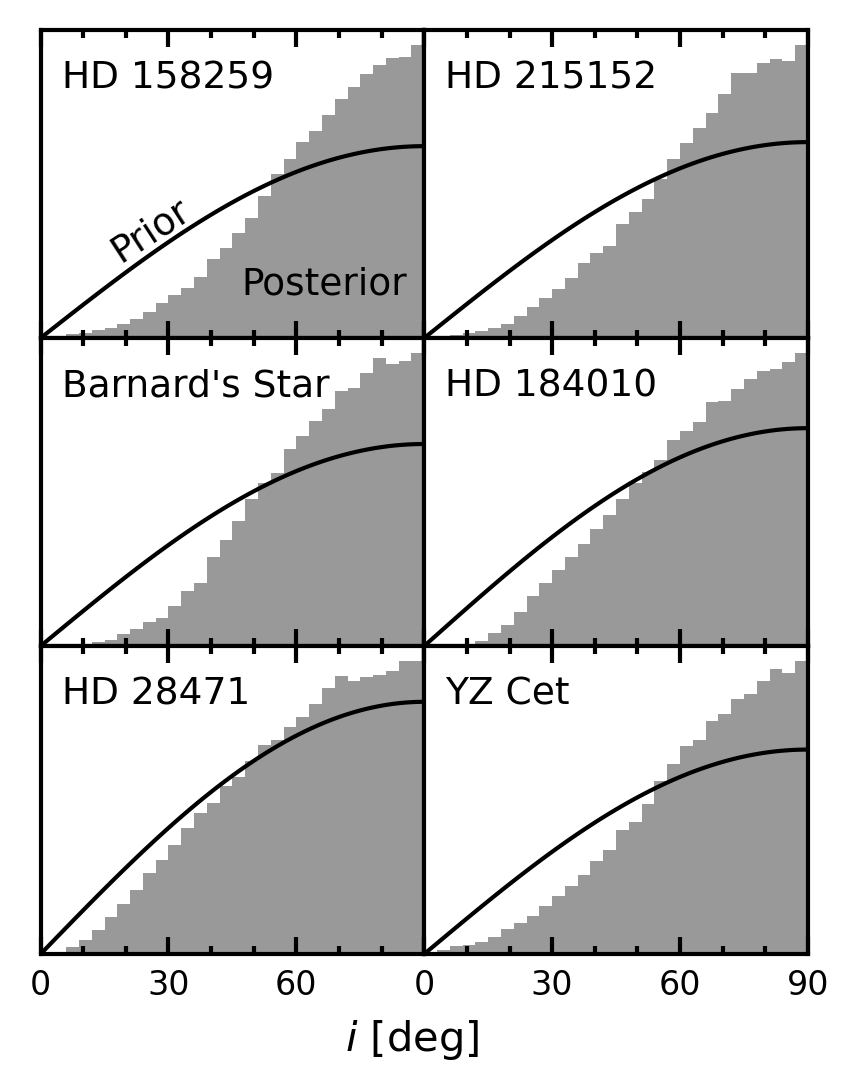
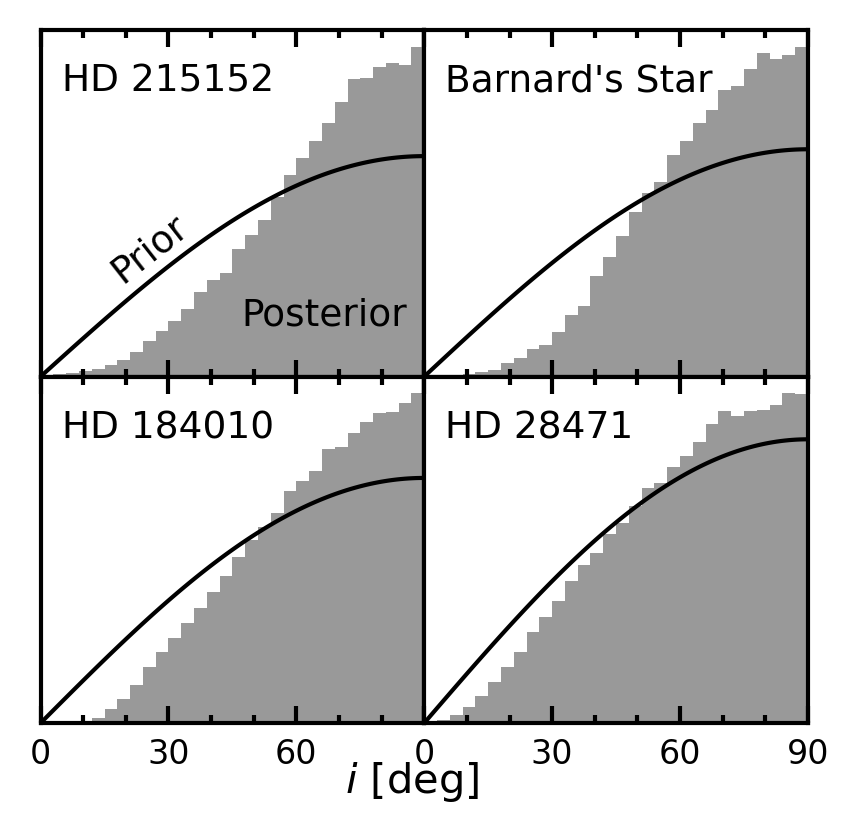
Remove HD 158259 from study, due to its already-well-constrained inclination

Changed region(s): [[0.0303, 0.0, 0.9686, 0.9664], [0.6054, 0.2182, 0.6356, 0.2494]]

diff --git a/scripts/figs/plot_hillstability.py b/scripts/figs/plot_hillstability.py
@@ -11,19 +11,13 @@ from pathlib import Path
 import matplotlib.pyplot as plt
 import numpy as np
 import pandas as pd
+from matplotlib.legend_handler import HandlerBase
 
 M_SUN = 1.989e30  # kg
 M_EARTH = 5.972e24  # kg
 ROOT_DIR = Path(__file__).resolve().parents[2]
 
-SYSTEMS = [
-    "HD 158259",
-    "HD 215152",
-    "Barnard's star",
-    "HD 184010",
-    "HD 28471",
-    "YZ Cet",
-]
+SYSTEMS = ["Barnard's star", "YZ Cet", "HD 28471", "HD 184010", "HD 215152"]
 
 DELTA_CRIT = 10
 
@@ -60,6 +54,22 @@ def collect_inclinations_5pc():
     return inclinations_5pc
 
 
+class VerticalLineHandler(HandlerBase):
+    def create_artists(
+        self, legend, handle, xdescent, ydescent, width, height, fontsize, trans
+    ):
+        x = width / 2
+        return [
+            plt.Line2D(
+                [x, x],
+                [-ydescent, height - ydescent],
+                color=handle.get_color(),
+                linestyle=handle.get_linestyle(),
+                transform=trans,
+            )
+        ]
+
+
 def main():
     if len(sys.argv) > 1:
         output_path = Path(sys.argv[1])
@@ -86,17 +96,19 @@ def main():
     i_deg = np.linspace(0, 90, 1000)
     sini_1_3 = np.sin(np.radians(i_deg)) ** (1 / 3)
     Y_MAX = 24
-    TITLES = [
-        "HD 158259",
-        "HD 215152",
-        "Barnard's Star",
-        "HD 184010",
-        "HD 28471",
-        "YZ Ceti",
-    ]
+    TITLES = ["Barnard's Star", "YZ Cet", "HD 28471", "HD 184010", "HD 215152"]
     TITLE_DICT = dict(zip(SYSTEMS, TITLES))
-    for i, system in enumerate(SYSTEMS):
+
+    for i in range(6):
         ax = axs.flatten()[i]
+        if i == 3:
+            ax.axis("off")
+
+            continue
+        else:
+            system = SYSTEMS[i if i < 3 else i - 1]
+            title = TITLE_DICT[system]
+
         system_data = planets_data[planets_data["hostname"] == system]
 
         m_star = system_data["st_mass"].values[0] * M_SUN
@@ -119,7 +131,7 @@ def main():
         closest_planets = "".join(
             [system_data.iloc[p].pl_name[-1] for p in list(closest_pair)]
         )
-        title = TITLE_DICT[system] + "\n" + f"$\\Delta_{{\\rm {closest_planets}}}$"
+        title_text = f"{title}\n$\\Delta_{{\\rm {closest_planets}}}$"
 
         ax.plot(i_deg, delta_min * sini_1_3, color="k", lw=1)
 
@@ -134,10 +146,9 @@ def main():
         ax.fill_between(i_deg, 0, 10, color="r", alpha=0.2)
 
         inclination_limit = inclinations_5pc[system]
-        if "158259" not in system:
-            ax.vlines(inclination_limit, 8, 12, color="k", lw=1, alpha=0.5)
+        ax.vlines(inclination_limit, 8, 12, color="k", lw=1, alpha=0.5)
 
-        ax.set_title(title, fontsize=9, ha="left", va="top", x=0.06, y=0.84)
+        ax.set_title(title_text, fontsize=9, ha="left", va="top", x=0.06, y=0.84)
 
     axs[-1, 0].set_xticks([0, 30, 60, 90], labels=["0", "30", "60", ""], fontsize=8)
     axs[-1, 1].set_xticks([0, 30, 60, 90], labels=["0", "30", "60", "90"], fontsize=8)
@@ -145,9 +156,7 @@ def main():
         ax.set_yticklabels([])
 
     for ax in axs.flatten():
-        ax.tick_params(
-            labelsize=8, direction="in", top=True, right=True, which="both"
-        )
+        ax.tick_params(labelsize=8, direction="in", top=True, right=True, which="both")
         ax.tick_params(length=3, which="major")
         ax.tick_params(length=1.5, which="minor")
 
@@ -157,15 +166,25 @@ def main():
         "$\\Delta < 10$", (50, 5), fontsize=9, color="r", alpha=0.7, va="center"
     )
 
-    # Label posterior (on HD 158259)
-    ax.vlines(inclinations_5pc["HD 158259"], 8, 15, color="k", lw=1, alpha=0.5)
-    ax.annotate("5% posterior", (37, 14), fontsize=8, ha="left", color="k", alpha=0.7)
     # Label prior on HD 28471
-    axs[-1, 0].vlines(
-        np.degrees(np.arccos(0.95)), 4.7, 12, color="k", ls=":", lw=1.0, alpha=0.5
+    axs[-2, 0].vlines(
+        np.degrees(np.arccos(0.95)), 8, 12, color="k", ls=":", lw=1.0, alpha=0.5
     )
-    axs[-1, 0].annotate(
-        "5% prior", (21.0, 4), fontsize=8, ha="left", color="k", alpha=0.7
+
+    # Add legend to blank plot
+
+    legend_handles = [
+        plt.Line2D([0], [0], linewidth=0.5, c="grey", ls=":", label="5% prior"),
+        plt.Line2D([0], [0], linewidth=0.5, c="grey", ls="-", label="5% posterior"),
+    ]
+    axs[1, 1].legend(
+        handles=legend_handles,
+        fontsize=8,
+        loc="center",
+        handler_map={plt.Line2D: VerticalLineHandler()},
+        handlelength=0.1,
+        handleheight=1.7,
+        labelspacing=1,
     )
 
     fg.supxlabel("$i$ [deg]", fontsize=11, y=0.02)

diff --git a/scripts/figs/plot_masses_vs_periods.py b/scripts/figs/plot_masses_vs_periods.py
@@ -15,21 +15,9 @@ import pandas as pd
 
 ROOT_DIR = Path(__file__).resolve().parents[2]
 
-SYSTEMS = [
-    "HD 158259",
-    "Barnard's star",
-    "HD 215152",
-    "HD 184010",
-    "HD 28471",
-    "YZ Cet",
-]
+SYSTEMS = ["Barnard's star", "HD 215152", "HD 184010", "HD 28471", "YZ Cet"]
 
-MOSAIC = [
-    ["HD 158259"] * 2,
-    ["HD 215152"] * 2,
-    ["Barnard's star", "HD 184010"],
-    ["HD 28471", "YZ Cet"],
-]
+MOSAIC = [["HD 215152"] * 2, ["Barnard's star", "HD 184010"], ["HD 28471", "YZ Cet"]]
 
 COLOURS = {"b": "r", "c": "g", "d": "b", "e": "m", "f": "c"}
 
@@ -165,7 +153,7 @@ def main() -> None:
     # ========
     # Plotting
     print("  Plotting...")
-    fg, axs = plt.subplot_mosaic(MOSAIC, figsize=(7, 10), gridspec_kw={"wspace": 0.2})
+    fg, axs = plt.subplot_mosaic(MOSAIC, figsize=(7, 8), gridspec_kw={"wspace": 0.2})
 
     for system, ax in axs.items():
         print(f"   Plotting {system}...")
@@ -198,16 +186,15 @@ def main() -> None:
             )
 
         title = system if system != "Barnard's star" else "Barnard's Star"
-        if title == "HD 158259" or title == "HD 215152":
-            x, y = 0.025, 0.78
+        if title == "HD 215152":
+            x, y = 0.025, 0.8
         else:
-            x, y = 0.055, 0.78
+            x, y = 0.054, 0.8
         ax.set_title(title, fontsize=14, x=x, y=y, horizontalalignment="left")
 
         ax.tick_params(length=5, labelsize=11, width=1, direction="in", right=True)
 
     # Axes tweaks
-    axs["HD 158259"].set_ylim(0.0, 23.5)
     axs["HD 215152"].set_xlim(3.5, 27)
     axs["HD 215152"].set_ylim(0.0, 11.0)
     axs["HD 184010"].set_xlim(140, 980)
@@ -215,7 +202,7 @@ def main() -> None:
     axs["YZ Cet"].set_ylim(0.0, 3.91)
 
     fg.supxlabel("Period [d]", fontsize=16, y=0.045)
-    fg.supylabel("True Mass [M$_{\\oplus}$]", fontsize=16, x=0)
+    fg.supylabel("True Mass [M$_{\\oplus}$]", fontsize=16, x=0.03)
     output_path.parent.mkdir(parents=True, exist_ok=True)
     fg.savefig(output_path, bbox_inches="tight", dpi=300)
 

diff --git a/scripts/figs/plot_allinclinations.py b/scripts/figs/plot_allinclinations.py
@@ -14,14 +14,7 @@ from cinemas import dataloading
 
 ROOT_DIR = Path(__file__).resolve().parents[2]
 
-SYSTEMS = [
-    "HD 158259",
-    "HD 215152",
-    "Barnard's star",
-    "HD 184010",
-    "HD 28471",
-    "YZ Cet",
-]
+SYSTEMS = ["HD 215152", "Barnard's star", "HD 184010", "HD 28471"]
 
 
 def main() -> None:
@@ -40,6 +33,10 @@ def main() -> None:
         catalogue
     )
     compact_multiplanet_rv_systems.sort_values(by="hostname", inplace=True)
+    # Remove YZ Cet, already plotted
+    compact_multiplanet_rv_systems = compact_multiplanet_rv_systems[
+        compact_multiplanet_rv_systems["hostname"] != "YZ Cet"
+    ]
 
     # Collect inclination samples
     results_path = ROOT_DIR / "results" / "mcmc_results"
@@ -59,12 +56,12 @@ def main() -> None:
     # ========
     # Plotting
     fg, axs = plt.subplots(
-        3, 2, figsize=(3.3, 4), gridspec_kw={"hspace": 0.0, "wspace": 0.0}
+        2, 2, figsize=(3.3, 3), gridspec_kw={"hspace": 0.0, "wspace": 0.0}
     )
     x = np.linspace(0, 90, 100)
     for system, ax in zip(SYSTEMS, axs.flatten()):
         display_name = system if system != "Barnard's star" else "Barnard's Star"
-        ax.set_title(display_name, fontsize=9, x=0.055, y=0.73, ha='left')
+        ax.set_title(display_name, fontsize=9, x=0.055, y=0.75, ha="left")
 
         for spine in ax.spines.values():
             spine.set_linewidth(1)
@@ -90,7 +87,7 @@ def main() -> None:
         ax.tick_params(length=2, which="minor")
 
     ax = axs[0, 0]
-    ax.annotate("Prior", xy=(15, 0.007), fontsize=9, rotation=33)
+    ax.annotate("Prior", xy=(15, 0.0075), fontsize=9, rotation=38)
     ax.annotate("Posterior", xy=(47, 0.004), fontsize=9)
 
     fg.supxlabel("$i$ [deg]", fontsize=10, y=0.02)

diff --git a/scripts/tables/tabulate_systems.py b/scripts/tables/tabulate_systems.py
@@ -26,9 +26,18 @@ def load_catalogue() -> pd.DataFrame:
     return pd.read_csv(ROOT_DIR / "data" / "exoplanet_catalogue.csv")
 
 
-def filter_refuted_planets(catalogue: pd.DataFrame) -> pd.DataFrame:
+def filter_problematic_systems(catalogue: pd.DataFrame) -> pd.DataFrame:
+    # Remove planets which have been refuted
     refuted_planets = ["GJ 667 C f", "GJ 667 C e", "GJ 667 C g", "DMPP-1 e"]
-    return catalogue[~catalogue["pl_name"].isin(refuted_planets)].copy()
+    filtered_catalogue = catalogue[~catalogue["pl_name"].isin(refuted_planets)].copy()
+
+    # Remove HD 158259
+    # Planet b transits, but planets c--f do not.
+    # Its inclination is therefore already pretty well-constrained
+    filtered_catalogue = filtered_catalogue[
+        filtered_catalogue["hostname"] != "HD 158259"
+    ]
+    return filtered_catalogue
 
 
 def build_system_summary_df(catalogue: pd.DataFrame) -> pd.DataFrame:
@@ -104,7 +113,7 @@ def format_systems_table(systems_df: pd.DataFrame) -> str:
 
 
 def build_systems_table(catalogue: pd.DataFrame) -> str:
-    filtered_catalogue = filter_refuted_planets(catalogue)
+    filtered_catalogue = filter_problematic_systems(catalogue)
     systems_df = build_system_summary_df(filtered_catalogue)
     return format_systems_table(systems_df)
 

diff --git a/scripts/tables/tabulate_masslimits.py b/scripts/tables/tabulate_masslimits.py
@@ -177,7 +177,7 @@ def format_mass_limits_table(m95_df: pd.DataFrame) -> str:
     )
 
     for planet in m95_df["pl_name"].unique():
-        if len(planet) > 1 and planet != "HD 158259 b":
+        if len(planet) > 1 and planet != "HD 215152 b":
             m95_latex = m95_latex.replace(planet, f"\\hline\n{planet}")
 
     return (
@@ -195,14 +195,7 @@ def main() -> None:
     )
 
     catalogue = load_catalogue()
-    SYSTEMS = [
-        "HD 158259",
-        "HD 215152",
-        "Barnard's star",
-        "HD 184010",
-        "HD 28471",
-        "YZ Cet",
-    ]
+    SYSTEMS = ["HD 215152", "Barnard's star", "HD 184010", "HD 28471", "YZ Cet"]
     results_dir = ROOT_DIR / "results" / "mcmc_results"
 
     true_mass_prior_95s, true_mass_posterior_95s = collect_mass_limit_maps(

diff --git a/tex/tables/masses95.tex b/tex/tables/masses95.tex
@@ -3,12 +3,6 @@
 Planet & $M_{\rm min}$ & \multicolumn{2}{c}{95\% mass limit [$M_{\earth}$]} & Change \\
  & [$M_{\earth}$] & Prior & Posterior & [\%] \\
 \hline
-HD 158259 b & 2.22 & 6.93 & 4.19 & $-$39.5 \\
-c & 5.60 & 17.26 & 10.23 & $-$40.7 \\
-d & 5.41 & 16.73 & 9.74 & $-$41.8 \\
-e & 6.08 & 18.88 & 11.13 & $-$41.0 \\
-f & 6.14 & 19.27 & 11.48 & $-$40.4 \\
-\hline
 HD 215152 b & 1.82 & 5.85 & 3.75 & $-$35.8 \\
 c & 1.72 & 5.69 & 3.67 & $-$35.5 \\
 d & 2.80 & 9.00 & 5.11 & $-$43.3 \\

diff --git a/tex/tables/systems.tex b/tex/tables/systems.tex
@@ -3,12 +3,6 @@
 Star (mass) & Planet & $P$~[d] & $M_{\rm min}$~[$M_{\earth}$] \\
 
 \hline
-HD 158259 & b & 2.18 & 2.22 \\
-($1.08~M_{\sun}$) & c & 3.43 & 5.60 \\
- & d & 5.20 & 5.41 \\
- & e & 7.95 & 6.08 \\
- & f & 12.03 & 6.14 \\
-\hline
 HD 215152 & b & 5.76 & 1.82 \\
 ($0.77~M_{\sun}$) & c & 7.28 & 1.72 \\
  & d & 10.86 & 2.80 \\
